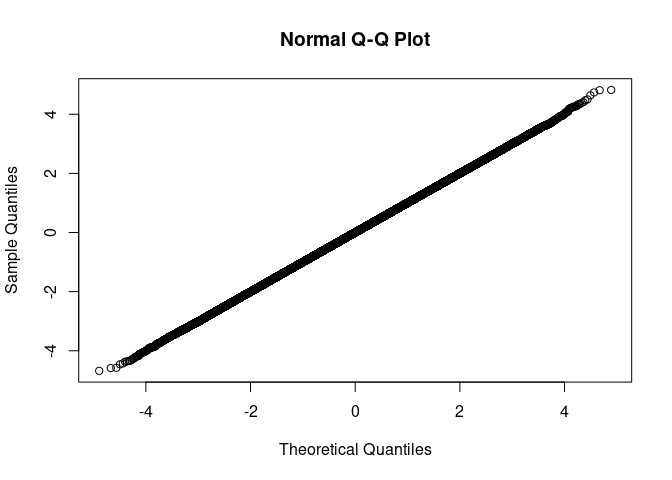
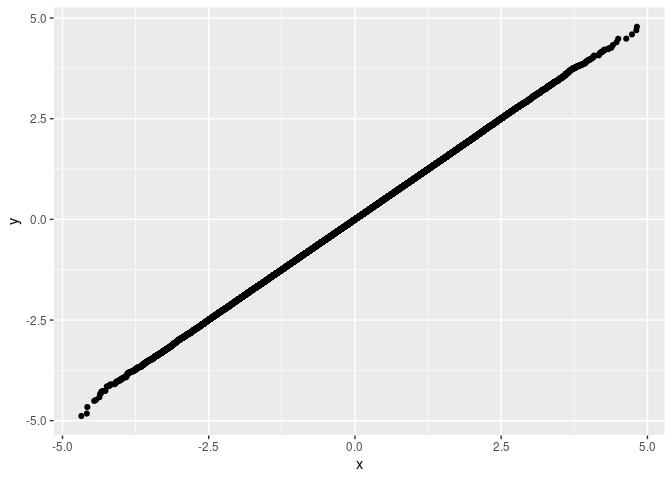
Readme and description done for now.

diff --git a/src/code.cpp b/src/code.cpp
@@ -45,8 +45,8 @@ DataFrame drop_dense_internal(NumericVector sorted_sample,
   }
   // Do the computation for comparing the speed gain
   DataFrame df = DataFrame::create(
-    Named("sorted_pruned_sample") = NumericVector(final_x.begin(), final_x.end()),
-    Named("sorted_pruned_theoretical") = NumericVector(final_y.begin(), final_y.end())
+    Named("x") = NumericVector(final_x.begin(), final_x.end()),
+    Named("y") = NumericVector(final_y.begin(), final_y.end())
   );
   return df;
 }

diff --git a/README.md b/README.md
@@ -32,9 +32,10 @@ See examples below on how this can be achieved.
 **Note** that this package is inspired by the `qqman` package, which has
 now [been archived](https://github.com/stephenturner/qqman). The
 interface to the `qq` function should be very similar, and `fastqq::qq`
-should ideally be a drop-in replacement for `qqman::qq`. I created this
-package since it could take 30-60 minutes to render a single plot with
-`qqman::qq`.
+is a drop-in replacement for `qqman::qq`. I created this package since
+it could take more than 10 minutes to render a single plot with
+`qqman::qq`. This is also to save on memory and other resources, in
+particular time.
 
 ## Installation
 
@@ -59,7 +60,7 @@ The following is an example from very simple simulated data:
 ``` r
 suppressPackageStartupMessages(library(fastqq))
 set.seed(42)
-p_simulated <- runif(100000)
+p_simulated <- runif(1e5)
 # Classic way to do this with qqman
 qqman::qq(p_simulated)
 ```
@@ -72,6 +73,8 @@ fastqq::qq(p_simulated)
 ```
 
 <img src="man/figures/README-example-2.png" width="100%" />
+
+There is no visible difference, and the analysis can proceed as usual.
 
 We can compare the timings of creating the plots, with `qqman`.
 
@@ -95,30 +98,33 @@ time_method <- function(pkg_name, method){
 N_test <- c(1e3,1e4,1e5,1e6,1e8)
 time_method('fastqq','qq')
 #> [1] "Timing fastqq::qq with 1000 points"
-#> 0.025 sec elapsed
+#> 0.023 sec elapsed
 #> [1] "Timing fastqq::qq with 10000 points"
-#> 0.025 sec elapsed
+#> 0.024 sec elapsed
 #> [1] "Timing fastqq::qq with 1e+05 points"
 #> 0.025 sec elapsed
 #> [1] "Timing fastqq::qq with 1e+06 points"
-#> 0.127 sec elapsed
+#> 0.126 sec elapsed
 #> [1] "Timing fastqq::qq with 1e+08 points"
-#> 9.803 sec elapsed
+#> 9.795 sec elapsed
 N_test <- c(1e3,1e4,1e5,1e6)
 time_method('qqman','qq')
 #> [1] "Timing qqman::qq with 1000 points"
 #> 0.003 sec elapsed
 #> [1] "Timing qqman::qq with 10000 points"
-#> 0.025 sec elapsed
+#> 0.024 sec elapsed
 #> [1] "Timing qqman::qq with 1e+05 points"
-#> 0.241 sec elapsed
+#> 0.237 sec elapsed
 #> [1] "Timing qqman::qq with 1e+06 points"
-#> 2.482 sec elapsed
+#> 2.439 sec elapsed
 ```
 
-So we can expect around 25X speedup, and for 100 million points (order
-of magnitude for modern GWAS), `fastqq::qq` takes 10 seconds on the same
-hardware as for the timings above.
+So we can expect around *25X speedup* for a million points. For 100
+million points (order of magnitude for modern GWAS), `fastqq::qq` takes
+10 seconds on the same hardware as for the timings above, `qqman::qq`
+takes more than 13.78 (*80X speedup*) minutes for 100 million points and
+if one saves to a vector graphic output, all the data is stored, and the
+file size scales with the amount of points.
 
 ### `qqnorm` example
 
@@ -149,7 +155,11 @@ fastqq::qqplot(rnorm(1e6),rnorm(1e6))
 set.seed(42)
 suppressPackageStartupMessages(library(fastqq))
 suppressPackageStartupMessages(library(ggplot2))
-fastqq::qqnorm(rnorm(1e6))
+x <- rnorm(1e6)
+y <- rnorm(1e6)
+df <- fastqq::drop_dense(x, y)
+
+ggplot(df, aes(x=x,y=y)) + geom_point()
 ```
 
 <img src="man/figures/README-ggplot-1.png" width="100%" />
